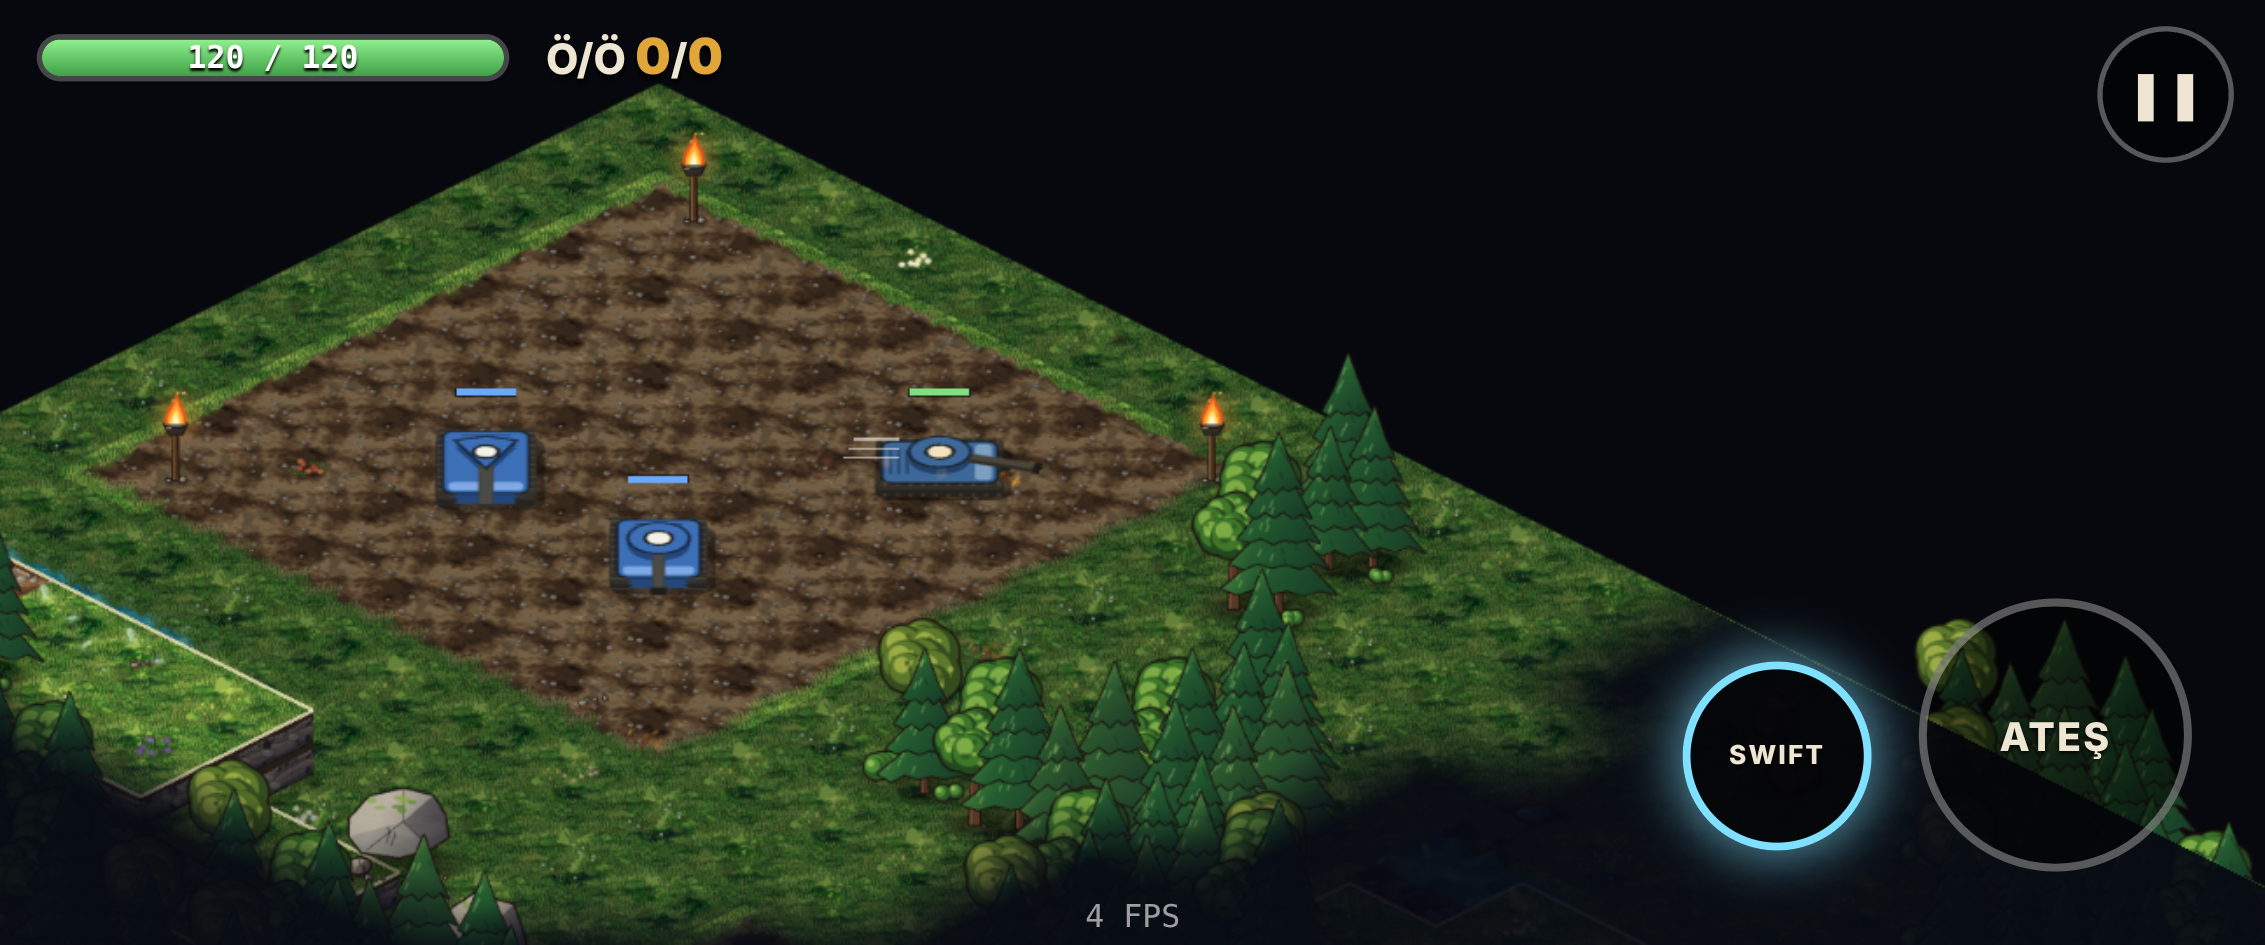
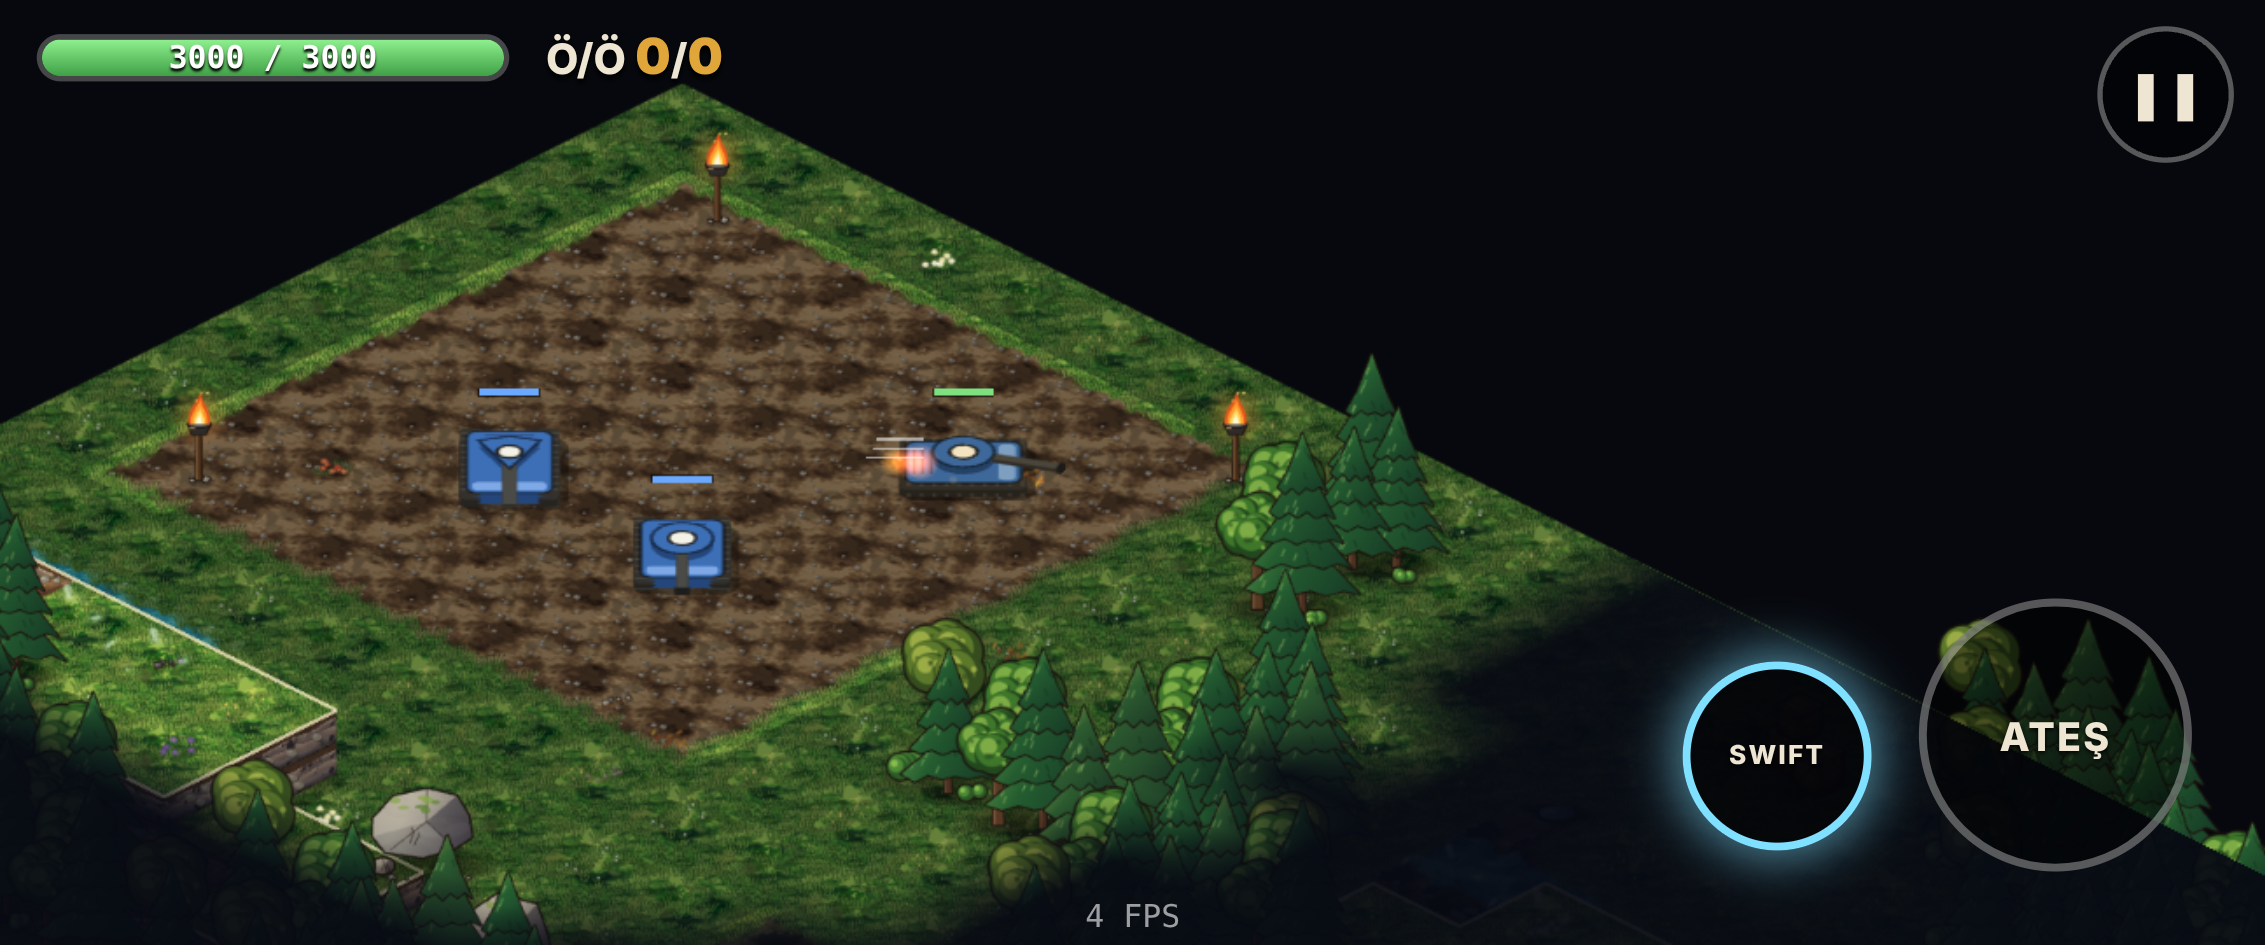
feat(balance): scale hp/damage x25 and make Barrage 6 shells within 1 s
Owner decisions (D-027, D-028):
- all tank hp and shell damage x25 (Heavy hp 5500 anchor), ability damage
  x25 (Rumble 850, Barrage 450/shell, Mine 1500); armor and charge curve
  unchanged, so time-to-kill and balance stay the same
- terrainDamageMul 1 -> 0.04 keeps wall/crate durability unchanged
- 'big hit' damage numbers are now >= 25 % of the target's max hp
- Barrage: 6 shells, 0.18 s apart, 1 s total (was 5 over 5 s)
- e2e: compare hp against the value before the hit; the combat test now
  picks a real enemy (it used an ally index and passed by accident)
- docs: TANKS.md tables, DECISIONS, BALANCE_REPORT update

Claude-Session: https://claude.ai/code/session_01QLuwurUtEMQpi25FmPCnvD

diff --git a/e2e/visual.spec.ts b/e2e/visual.spec.ts
@@ -17,13 +17,14 @@ for (const [name, query] of [
 
 test('visual: combat (charged shot hits an enemy)', async ({ page }) => {
   await startMatch(page, 'silent&endless&map=40&seed=11&cls=heavy&bots=idle');
-  // place enemy 2 just in front of the player on open ground and aim at it
-  await page.evaluate(() => {
+  // place the first enemy just in front of the player on open ground and aim at it
+  const foe = await page.evaluate(() => {
     type M = { width: number; feature: Uint8Array; elev: Uint8Array; flags: Uint8Array; version: number };
-    const sc = (window as unknown as { __tanky: { scene: { worldView: { invalidate(): void }; state: { map: M; tanks: { x: number; y: number }[] } } } }).__tanky.scene;
+    const sc = (window as unknown as { __tanky: { scene: { worldView: { invalidate(): void }; state: { map: M; tanks: { x: number; y: number; team: number }[] } } } }).__tanky.scene;
     const st = sc.state;
     const me = st.tanks[0];
-    const e = st.tanks[2];
+    const idx = st.tanks.findIndex((t) => t.team !== me.team);
+    const e = st.tanks[idx];
     // clear a firing lane: no features/elevation within 4 tiles of the player
     for (let y = Math.floor(me.y) - 4; y <= Math.floor(me.y) + 4; y++)
       for (let x = Math.floor(me.x) - 4; x <= Math.floor(me.x) + 4; x++) {
@@ -38,15 +39,17 @@ test('visual: combat (charged shot hits an enemy)', async ({ page }) => {
     // screen-right of the player = world (+x, -y)
     e.x = me.x + 2.1;
     e.y = me.y - 2.1;
+    return idx;
   });
   await page.mouse.move(780, 190);
-  await page.keyboard.down('Space');
   type T = { __tanky: { scene: { state: { tanks: { chargeT: number; fullT: number; hp: number }[] } } } };
+  const hpBefore = await page.evaluate((i) => (window as unknown as T).__tanky.scene.state.tanks[i].hp, foe);
+  await page.keyboard.down('Space');
   await page.waitForFunction(() => (window as unknown as T).__tanky.scene.state.tanks[0].chargeT > 1.4, null, { timeout: 30_000 });
   await page.screenshot({ path: 'e2e/out/visual-charging.png' });
   // release inside the perfect window (screenshots take sim time, so release first)
   await page.waitForFunction(() => (window as unknown as T).__tanky.scene.state.tanks[0].fullT > 0, null, { timeout: 30_000, polling: 'raf' });
   await page.keyboard.up('Space');
-  await page.waitForFunction(() => (window as unknown as T).__tanky.scene.state.tanks[2].hp < 120, null, { timeout: 30_000, polling: 'raf' });
+  await page.waitForFunction(([i, h]) => (window as unknown as T).__tanky.scene.state.tanks[i].hp < h, [foe, hpBefore] as const, { timeout: 30_000, polling: 'raf' });
   await page.screenshot({ path: 'e2e/out/visual-combat-hit.png' });
 });

diff --git a/tests/abilities.test.ts b/tests/abilities.test.ts
@@ -123,31 +123,32 @@ describe('Standard — Swift', () => {
 });
 
 describe('Artillery — Barrage', () => {
-  it('fires exactly 5 warned shells ~1 s apart around the target, slows the tank and blocks normal fire', () => {
+  it('fires all its warned shells within its short duration, slows the tank and blocks normal fire meanwhile', () => {
+    const def = ABILITIES.barrage;
     const s = arena([
       { team: 0, cls: 'artillery', x: 5.5, y: 10.5 },
       { team: 1, cls: 'heavy', x: 10.5, y: 10.5 },
     ]);
     run(s, 5, [{ ...idle, aim: AIM_AUTO }, idle]);
     const ev: SimEvent[] = run(s, 1, [{ ...idle, aim: AIM_AUTO, buttons: BTN_ABILITY }, idle]);
-    const fired: number[] = [];
+    const fireTicks: number[] = []; // callback sees the previous step's events → tick k = shot of step k-1
     let tick = 0;
     let speedDuring = 0;
     const evs = ev.concat(
-      run(s, secs(5.2), (st) => {
-        if (tick === secs(3)) speedDuring = Math.hypot(st.tanks[0].vx, st.tanks[0].vy);
+      run(s, secs(Number(def.duration) + 0.5), (st) => {
         tick++;
-        if (st.events.some((e) => e.type === 'fire')) fired.push(tick);
-        return [{ ...idle, aim: AIM_AUTO, moveX: 127, buttons: BTN_FIRE }, idle];
+        if (tick === secs(Number(def.duration) / 2)) speedDuring = Math.hypot(st.tanks[0].vx, st.tanks[0].vy);
+        if (st.events.some((e) => e.type === 'fire')) fireTicks.push(tick);
+        // holds fire the whole time: no normal shot may leave while the barrage lasts
+        return [{ ...idle, aim: AIM_AUTO, moveX: 127, buttons: tick < secs(Number(def.duration)) ? BTN_FIRE : 0 }, idle];
       }),
     );
     const warned = s.shells.filter((x) => x.warn).length + evs.filter((e) => e.type === 'explode' && e.kind === 'artillery').length;
-    expect(warned).toBe(5);
-    const fires = evs.filter((e) => e.type === 'fire').length;
-    expect(fires).toBe(5); // no normal shots while the barrage lasts
+    expect(warned).toBe(def.shots);
+    expect(evs.filter((e) => e.type === 'fire').length).toBe(def.shots);
+    expect(fireTicks[fireTicks.length - 1] - 1).toBeLessThanOrEqual(secs(1));
     expect(speedDuring).toBeGreaterThan(0);
     expect(speedDuring).toBeLessThan(TANKS.artillery.maxSpeed * 0.45);
-    // landing points scatter around the target but within the scatter radius (+target motion 0)
     run(s, 120, [idle, idle]);
   });
 

diff --git a/e2e/round01.spec.ts b/e2e/round01.spec.ts
@@ -109,10 +109,12 @@ test('07 Heavy — Rumble shockwave', async ({ page }) => {
   await startMatch(page, 'silent&endless&map=40&seed=11&bots=idle', 'heavy');
   await stage(page, 3, 1.3, -1.0);
   await ticks(page, 5);
+  const hp3 = () => page.evaluate(() => (window as unknown as W).__tanky.scene.state.tanks[3].hp);
+  const before = await hp3();
   await ability(page);
   await ticks(page, 8);
   await shot(page, '07-ability-rumble');
-  expect(await page.evaluate(() => (window as unknown as W).__tanky.scene.state.tanks[3].hp)).toBeLessThan(120);
+  expect(await hp3()).toBeLessThan(before);
 });
 
 test('08 Standard — Swift', async ({ page }) => {

diff --git a/src/scenes/GameScene.ts b/src/scenes/GameScene.ts
@@ -349,7 +349,7 @@ export class GameScene {
           const visible = canSeeTank(s, this.myTeam, t) || t.team === this.myTeam;
           if (visible) {
             this.tankViews[e.target].hitFlash();
-            this.fx.damageNumber(this.sx(t.x, t.y), this.sy(t.x, t.y) - 50, e.damage, e.damage >= 30);
+            this.fx.damageNumber(this.sx(t.x, t.y), this.sy(t.x, t.y) - 50, e.damage, e.damage >= TANKS[t.cls].hp * 0.25); // big hit = a quarter of the max hp
             this.fx.sparks(this.sx(t.x, t.y), this.sy(t.x, t.y) - 16, 8);
           }
           this.play('hit_metal', t.x, t.y);

diff --git a/docs/TANKS.md b/docs/TANKS.md
@@ -8,23 +8,25 @@ hasar 1x → 3x (tam şarj), "mükemmel şarj" +%15, mermi hızı 1x → 1,6x, m
 
 | Sınıf | Kod adı | Rol | Hız | Can | Zırh | Efektif can* | Görüş | Atış tipi |
 |---|---|---|---|---|---|---|---|---|
-| Çevik | `scout` | Kanat / keşif | 4,2 (çok yüksek) | 70 | %0 | 70 | 6 | Düz, seri |
-| Ağır | `heavy` | Hat tutucu | 1,5 (çok düşük) | 220 | %25 | 293 | 4,5 | Düz, ağır, 1 kez seker |
-| Dengeli | `standard` | Her işi gören | 2,7 (orta) | 120 | %10 | 133 | 6 | Düz |
-| Topçu | `artillery` | Arkadan destek | 1,9 (düşük) | 85 | %5 | 89 | 6 | Kavisli, engel üstünden, alan hasarı |
-| Tuzakçı | `trapper` | Bilgi / kontrol | 2,2 (orta-düşük) | 95 | %5 | 100 | **Tüm harita** (+ mini harita) | Düz, zayıf |
+| Çevik | `scout` | Kanat / keşif | 4,2 (çok yüksek) | 1750 | %0 | 1750 | 6 | Düz, seri |
+| Ağır | `heavy` | Hat tutucu | 1,5 (çok düşük) | 5500 | %25 | 7333 | 4,5 | Düz, ağır, 1 kez seker |
+| Dengeli | `standard` | Her işi gören | 2,7 (orta) | 3000 | %10 | 3333 | 6 | Düz |
+| Topçu | `artillery` | Arkadan destek | 1,9 (düşük) | 2125 | %5 | 2237 | 6 | Kavisli, engel üstünden, alan hasarı |
+| Tuzakçı | `trapper` | Bilgi / kontrol | 2,2 (orta-düşük) | 2375 | %5 | 2500 | **Tüm harita** (+ mini harita) | Düz, zayıf |
 
 \* Efektif can = can / (1 − zırh).
+
+**Ölçek (2026-10-09, D-027):** sahibinin kararıyla tüm can ve hasarlar eski değerlerin **×25**'i (Ağır can = 5500 referans); oranlar ve denge aynı. Yarım şarj ×1,6 hasar verir.
 
 ## Ateş özellikleri
 
 | Sınıf | Hasar (dokunuş) | Hasar (tam şarj) | Mükemmel şarj | Bekleme (cooldown) | Şarj süresi | Şarjda yavaşlama | Mermi hızı | Menzil | Patlama yarıçapı | Özel |
 |---|---|---|---|---|---|---|---|---|---|---|
-| Çevik | 9 | 27 | 31 | 0,28 sn | 0,8 sn | %20 | 11 | 7 | 0,25 | — |
-| Ağır | 38 | 114 | 131 | 1,4 sn | 2,2 sn | %50 | 8 | 7,5 | 0,55 | Duvardan 1 kez seker |
-| Dengeli | 18 | 54 | 62 | 0,7 sn | 1,4 sn | %35 | 10 | 7 | 0,35 | — |
-| Topçu | 26 | 78 | 90 | 1,8 sn | 1,8 sn | %45 | 7 | 10 | 0,9 | Kavisli; şarj atış mesafesini belirler; min. menzil 3 |
-| Tuzakçı | 12 | 36 | 41 | 1,0 sn | 1,5 sn | %35 | 9 | 6,5 | 0,3 | — |
+| Çevik | 225 | 675 | 776 | 0,28 sn | 0,8 sn | %20 | 11 | 7 | 0,25 | — |
+| Ağır | 950 | 2850 | 3278 | 1,4 sn | 2,2 sn | %50 | 8 | 7,5 | 0,55 | Duvardan 1 kez seker |
+| Dengeli | 450 | 1350 | 1553 | 0,7 sn | 1,4 sn | %35 | 10 | 7 | 0,35 | — |
+| Topçu | 650 | 1950 | 2243 | 1,8 sn | 1,8 sn | %45 | 7 | 10 | 0,9 | Kavisli; şarj atış mesafesini belirler; min. menzil 3 |
+| Tuzakçı | 300 | 900 | 1035 | 1,0 sn | 1,5 sn | %35 | 9 | 6,5 | 0,3 | — |
 
 ## Hareket özellikleri
 
@@ -36,15 +38,14 @@ hasar 1x → 3x (tam şarj), "mükemmel şarj" +%15, mermi hızı 1x → 1,6x, m
 | Topçu | 1,9 | 5 | 2,6 | 3,0 | 0,44 |
 | Tuzakçı | 2,2 | 7 | 3,2 | 3,8 | 0,42 |
 
-## Yetenekler (YETENEK butonu) — sahibi tarafından doldurulacak
+## Yetenekler (YETENEK butonu)
 
-Brief'teki öneriler parantez içinde referans olarak duruyor; her sınıf için istediğin yeteneği yaz.
-Mümkünse şunları da belirt: süre, bekleme süresi, etkisi (sayısal), kullanırken kısıtlar.
+Değerler `src/data/abilities.json`. Bekleme süresi etki bittikten sonra başlar.
 
-| Sınıf | Yetenek adı | Ne yapar | Süre | Bekleme | Notlar |
+| Sınıf | Yetenek | Ne yapar | Süre | Bekleme | Hasar |
 |---|---|---|---|---|---|
-| Çevik | | | | | (brief: Dash) |
-| Ağır | | | | | (brief: Siper modu: +%40 zırh, mermi sektirme) |
-| Dengeli | | | | | (brief: Geçici kalkan) |
-| Topçu | | | | | (brief: Engel üstünden atış, min. menzil — şu an zaten pasif olarak var) |
-| Tuzakçı | | | | | (brief: 6 tür tuzak; tüm haritayı görme pasif) |
+| Çevik | Saklan | Görünmezlik; ateş edince biter, vurulunca 0,5 sn parıldar | 5 sn | 5 sn | — |
+| Ağır | Gümbürtü | Anlık şok dalgası, 2,4 kare; geri iter, duvar arkasına geçmez | anlık | 10 sn | 850 merkez → 298 kenar |
+| Dengeli | Swift | 2x hız ve atış hızı, şarj süresi yarıya | 5 sn | 8 sn | — |
+| Topçu | Yaylım Ateşi | **6 mermi, 1 sn içinde** (0,18 sn arayla) hedef bölgeye; iniş yerleri herkese uyarılır | 1 sn | 10 sn | 450 / mermi (en çok 2700) |
+| Tuzakçı | Mayın | Arkaya mayın; en çok 3 aktif | anlık | 2 sn | 1500 (basana), çevreye en çok %60 |

diff --git a/docs/DECISIONS.md b/docs/DECISIONS.md
@@ -30,3 +30,5 @@ Small, reversible decisions taken autonomously (brief §0). Newest at the bottom
 | D-024 | 2026-10-08 | PR base is `claude/tanky-tunky-setup-dw06hp` (the repository's only/default branch; there is no `main`). | The owner asked for a PR; no `main` exists yet. |
 | D-025 | 2026-10-08 | The placeholder `src/ai/dummyBot.ts` was replaced by `src/systems/ai` (FSM + A*), as the brief's AI system. | Job 3: "mevcut AI sistemine bağla" — there was no real AI yet; built it there instead of patching the dummy. |
 | D-026 | 2026-10-08 | Static ground (tiles, cliff edges, decals) is **baked into a RenderTexture** around the camera and only re-baked when the view leaves the baked area or terrain changes; water stays live. Feature sprites use Pixi's `CullerPlugin`; relayout margin 300 px. | Round 01 added vision, overlays and 6 tanks; CI perf gate hit p95 33 ms. Baking cut JS work mean 6.8 → ~4.6 ms locally (gate p95 16.7 ms). |
+| D-027 | 2026-10-09 | **Owner decision: all hp and damage ×25** (Heavy hp = 5500 as the anchor; armor, charge curve and ratios unchanged). Ability damages ×25 too (Rumble 850, Barrage 450/shell, Mine 1500). `combat.shell.terrainDamageMul` 1 → 0.04 so walls/crates keep their durability; the "big hit" damage-number colour is now ≥ 25 % of the target's max hp instead of a fixed 30. | Owner prefers bigger numbers; a uniform scale keeps time-to-kill and balance identical (balance sim confirms). |
+| D-028 | 2026-10-09 | **Owner decision: Artillery Barrage = 6 shells within 1 s** (`shots 6, interval 0.18, duration 1`; was 5 shells over 5 s). | The old barrage took too long. Balance sim: artillery kills/match 0.27 → 0.53, K/D 0.22 → 0.39, win rate ~unchanged (27 %). |

diff --git a/docs/BALANCE_REPORT.md b/docs/BALANCE_REPORT.md
@@ -29,3 +29,15 @@ Win rate counts only decisive matches (team with more kills wins). Target band: 
 - Draw rate 14 % with 6 kills/match: matches are short and low-scoring; consider 40×40 maps with fewer spawn points far from the centre.
 
 All values live in `src/data/tanks.json`, `combat.json`, `abilities.json`, `ai.json`; cooldowns can be scaled live in Settings → Developer → "Bekleme çarpanı".
+
+## Update 2026-10-09 — ×25 scale (D-027) + short Barrage (D-028)
+
+300 matches, same seeds. The ×25 scale alone changes nothing (uniform); the differences come from the 6-shells-in-1-s Barrage.
+
+| Class | Win rate before → after | K/D before → after | Kills / match before → after |
+|---|---|---|---|
+| scout | 40.3 % → 40.2 % | 0.65 → 0.64 | 0.92 → 0.97 |
+| heavy | 67.0 % → 66.3 % | 2.91 → 2.69 | 1.43 → 1.34 |
+| standard | 69.9 % → 69.0 % | 1.94 → 1.74 | 1.55 → 1.59 |
+| artillery | 27.1 % → 27.6 % | 0.22 → 0.39 | 0.27 → 0.53 |
+| trapper | 44.5 % → 45.5 % | 0.78 → 0.85 | 0.91 → 1.04 |
